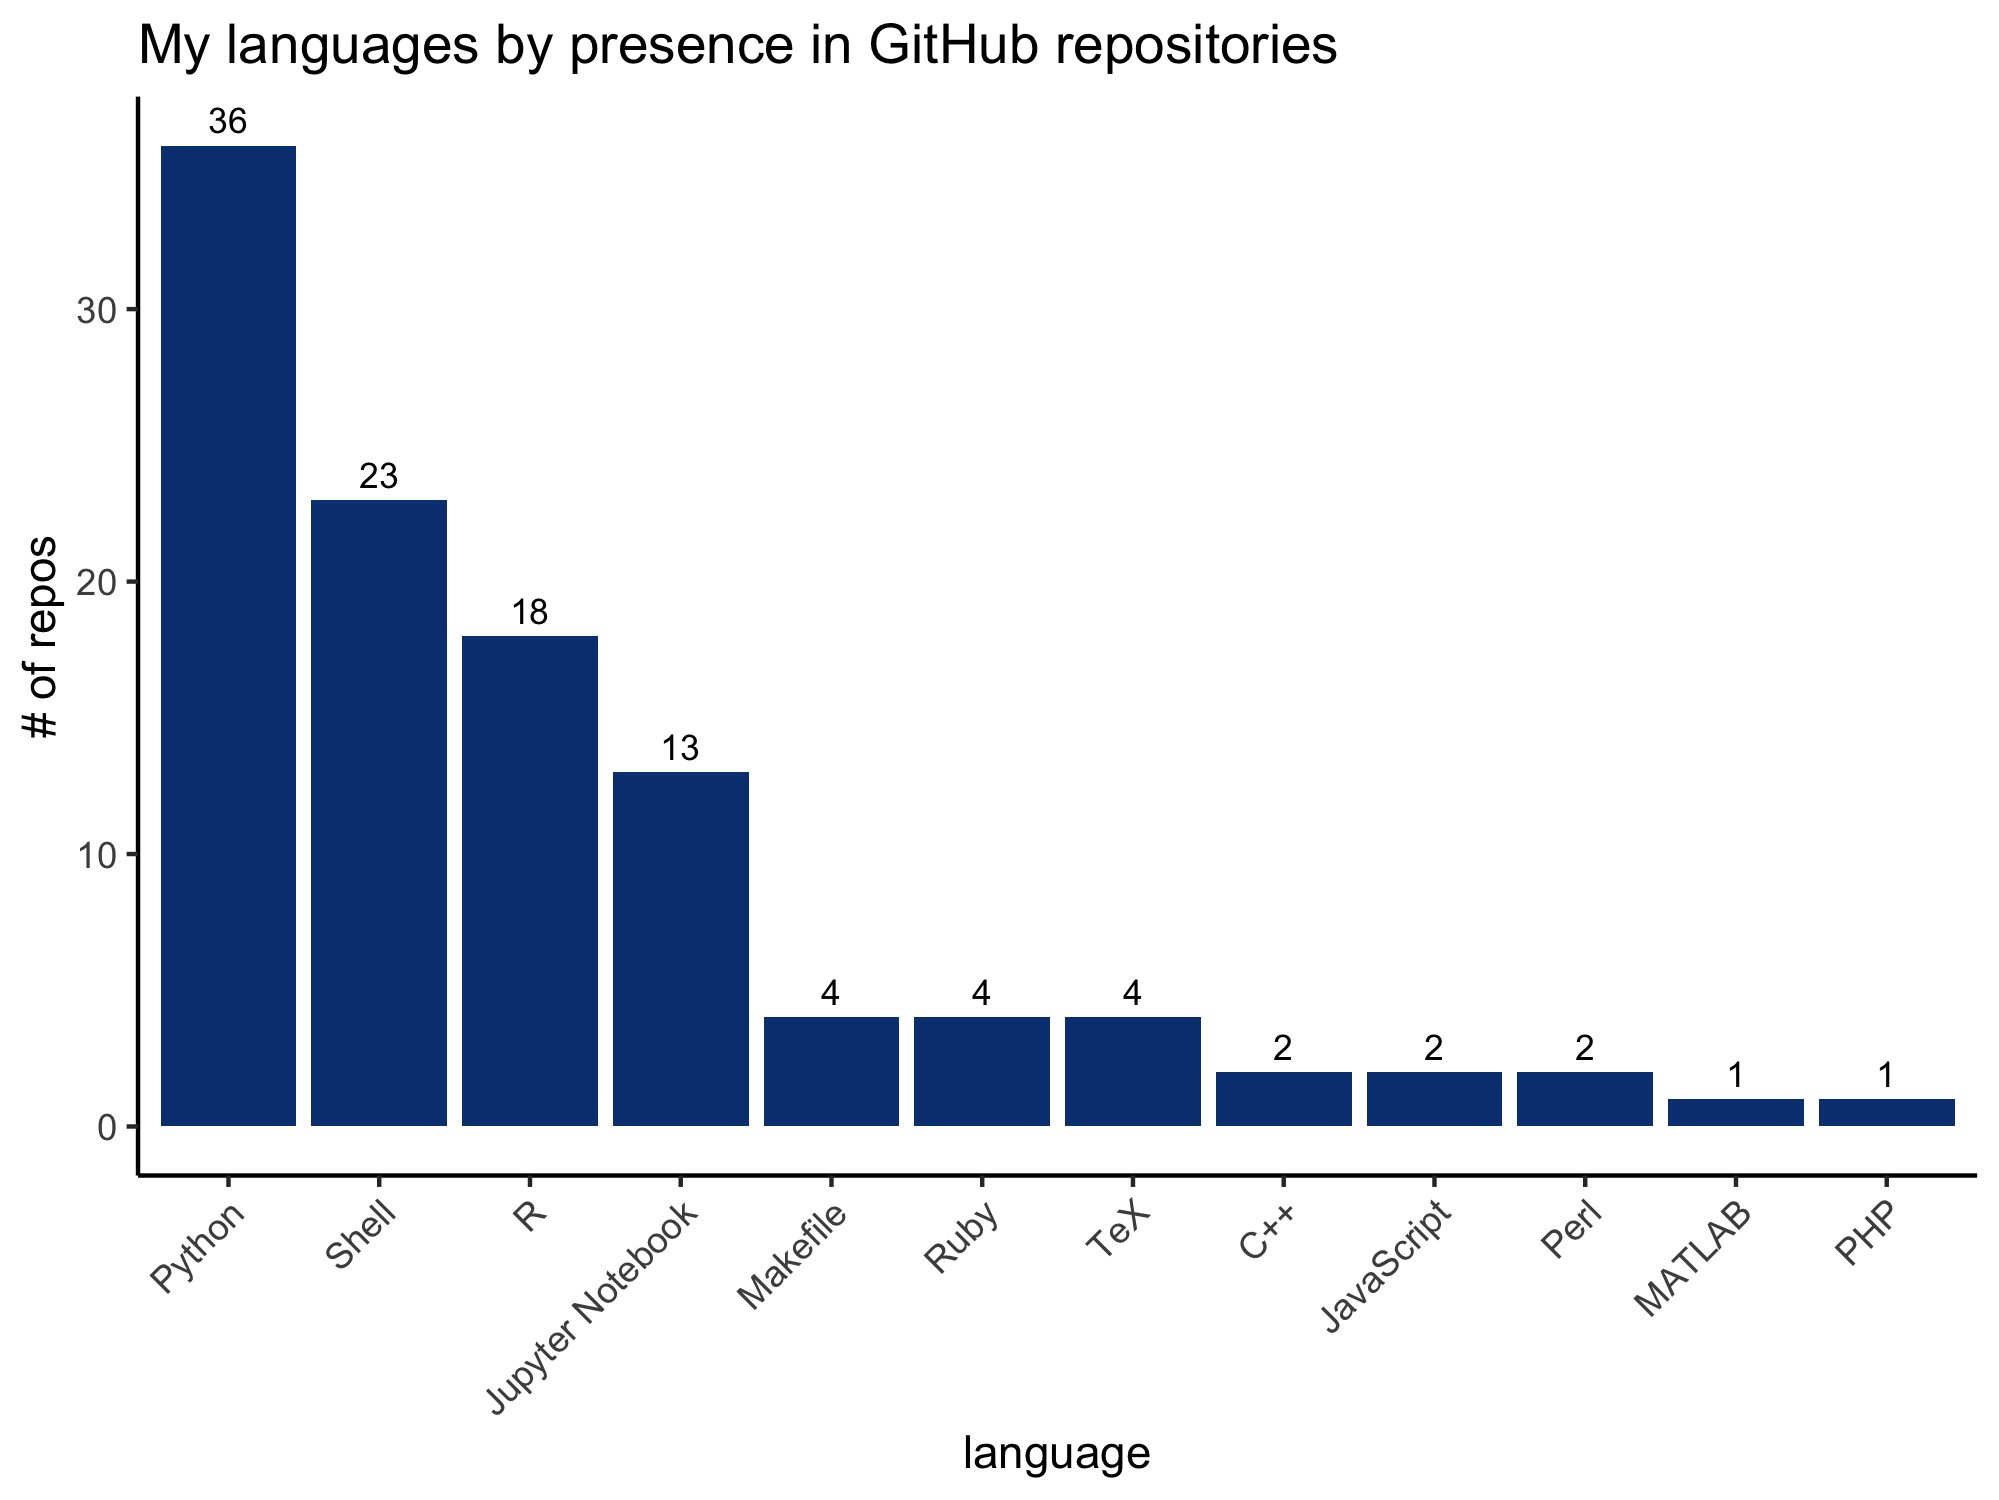
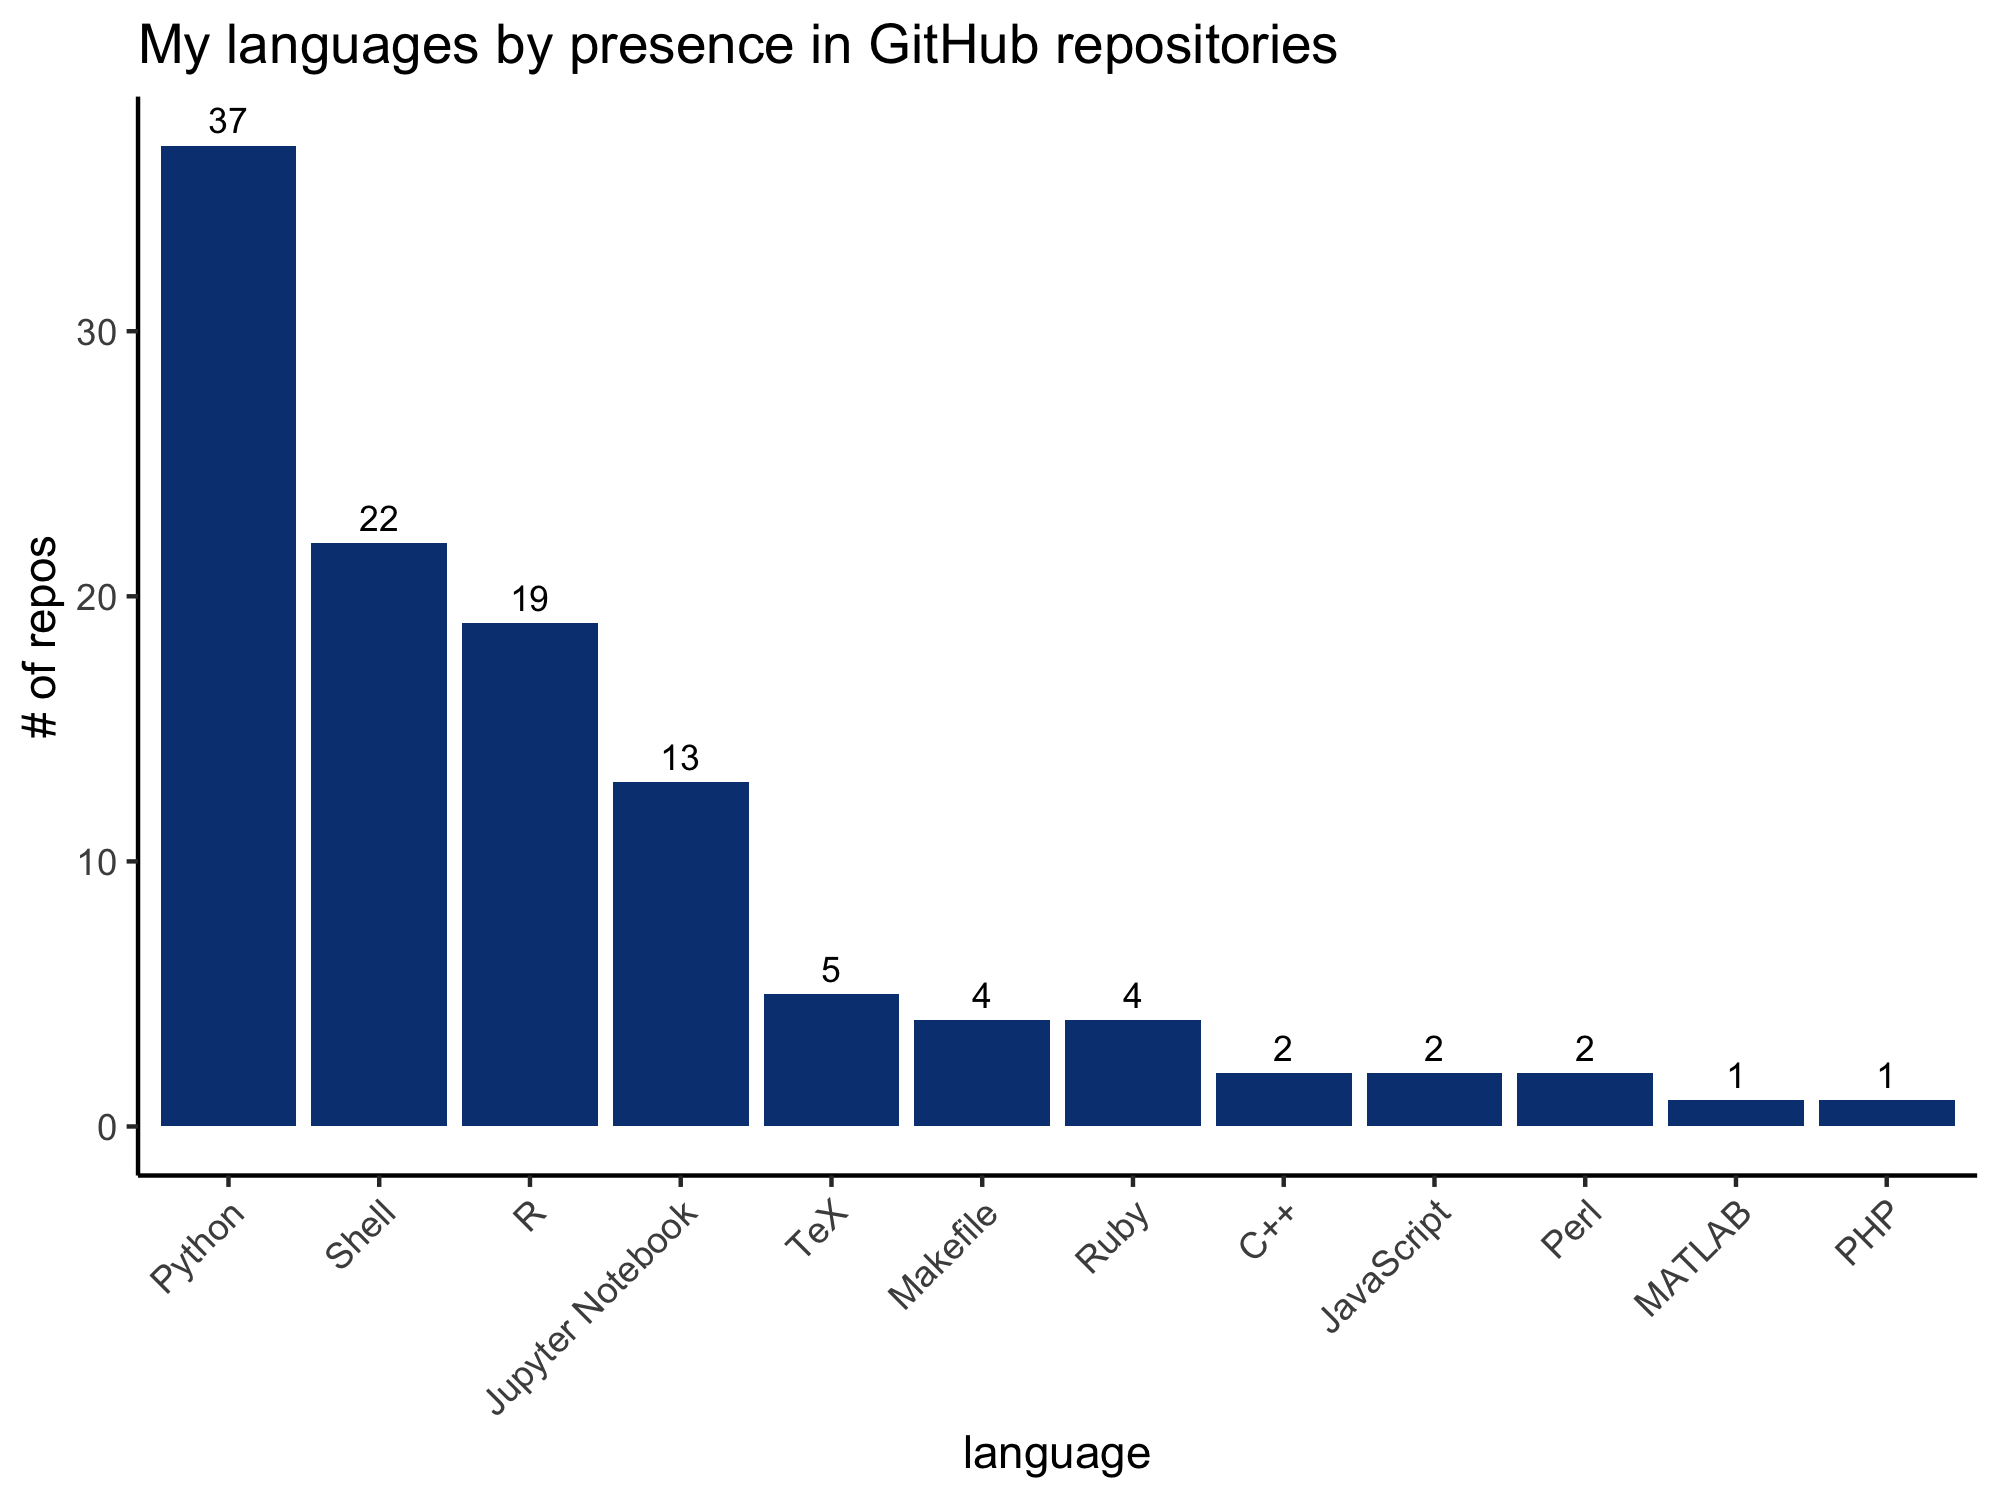
Auto-update repos

diff --git a/README.md b/README.md
@@ -10,23 +10,23 @@ A meta-repository to organize my public projects.
 ### Current
 | Repository | Description | Owner | Language(s) |
 |---|---|---|---|
+| [strava](https://github.com/kelly-sovacool/strava) | Having fun plotting my activity data from Strava! | [kelly-sovacool](https://github.com/kelly-sovacool) | R, Python, Shell |
+| [ML_pipeline_microbiome](https://github.com/SchlossLab/ML_pipeline_microbiome) |  | [SchlossLab](https://github.com/SchlossLab) | R, Shell |
+| [um-dang.github.io](https://github.com/um-dang/um-dang.github.io) | Website for the Data Analysis Networking Group at U-M. | [um-dang](https://github.com/um-dang) |  |
+| [umswc.github.io](https://github.com/UMSWC/umswc.github.io) | UM Software and Data Carpentry Website | [UMSWC](https://github.com/UMSWC) | CSS, HTML, Python, Ruby |
+| [latex-cv](https://github.com/kelly-sovacool/latex-cv) | My curriculum vitae in LaTeX + a Snakemake pipeline for compiling tex to pdf. | [kelly-sovacool](https://github.com/kelly-sovacool) | TeX, Python, Shell |
+| [ClubCurriculum](https://github.com/GWC-DCMB/ClubCurriculum) | Curriculum for our weekly club for high school students. | [GWC-DCMB](https://github.com/GWC-DCMB) | Jupyter Notebook, Python |
+| [meta-repo](https://github.com/kelly-sovacool/meta-repo) | A meta-repository to organize my public projects. | [kelly-sovacool](https://github.com/kelly-sovacool) | Python, R, Shell |
 | [recipes-kelly](https://github.com/kelly-sovacool/recipes-kelly) | Teaching git at WISE Software Carpentry Workshop 2020-01-07 | [kelly-sovacool](https://github.com/kelly-sovacool) |  |
-| [ML_pipeline_microbiome](https://github.com/SchlossLab/ML_pipeline_microbiome) |  | [SchlossLab](https://github.com/SchlossLab) | R, Shell, Makefile |
 | [omu-prototype](https://github.com/SchlossLab/omu-prototype) | A tool to cluster features from untargeted mass spectrometry experiments into Operational Metabolomic Units (OMU) | [SchlossLab](https://github.com/SchlossLab) | Python |
 | [GWC-DCMB](https://github.com/GWC-DCMB/GWC-DCMB) | A meta-repository to help navigate the repos and resources of Girls Who Code at UM-DCMB. | [GWC-DCMB](https://github.com/GWC-DCMB) | Python, Shell |
-| [meta-repo](https://github.com/kelly-sovacool/meta-repo) | A meta-repository to organize my public projects. | [kelly-sovacool](https://github.com/kelly-sovacool) | Python, R, Shell |
-| [um-dang.github.io](https://github.com/um-dang/um-dang.github.io) | Website for the Data Analysis Networking Group at U-M. | [um-dang](https://github.com/um-dang) |  |
 | [challengeQuestions](https://github.com/GWC-DCMB/challengeQuestions) | Jupyter notebooks of challenge questions for learners. | [GWC-DCMB](https://github.com/GWC-DCMB) | Jupyter Notebook, Python |
-| [strava](https://github.com/kelly-sovacool/strava) | Having fun plotting my activity data from Strava! | [kelly-sovacool](https://github.com/kelly-sovacool) | R, Python, Shell |
 | [SummerExperience](https://github.com/GWC-DCMB/SummerExperience) | Curriculum & materials for our week-long Data Science Summer Experience. | [GWC-DCMB](https://github.com/GWC-DCMB) | Jupyter Notebook, Python |
-| [ClubCurriculum](https://github.com/GWC-DCMB/ClubCurriculum) | Curriculum for our weekly club for high school students. | [GWC-DCMB](https://github.com/GWC-DCMB) | Jupyter Notebook, Python |
 | [jupyter-ci-mwe](https://github.com/kelly-sovacool/jupyter-ci-mwe) | A minimal working example of using continuous integration to convert jupyter notebooks to PDFs. | [kelly-sovacool](https://github.com/kelly-sovacool) | Jupyter Notebook |
 | [kelly-sovacool.github.io](https://github.com/kelly-sovacool/kelly-sovacool.github.io) | My personal website, forked from the academicpages template. | [kelly-sovacool](https://github.com/kelly-sovacool) | Shell |
-| [latex-cv](https://github.com/kelly-sovacool/latex-cv) | My curriculum vitae in LaTeX + a Snakemake pipeline for compiling tex to pdf. | [kelly-sovacool](https://github.com/kelly-sovacool) | TeX, Python, Shell |
 | [tiger_salamander_project](https://github.com/kelly-sovacool/tiger_salamander_project) | SNP pipeline using Snakemake for the Weisrock Lab's Tiger Salamander project. | [kelly-sovacool](https://github.com/kelly-sovacool) | Python, Shell |
 | [CapstoneProject](https://github.com/GWC-DCMB/CapstoneProject) | Capstone Project datasets & instructions. | [GWC-DCMB](https://github.com/GWC-DCMB) | Jupyter Notebook |
 | [2020-01-06-UMich-WISE](https://github.com/UMSWC/2020-01-06-UMich-WISE) | Software Carpentry workshop for WISE at U-M | [UMSWC](https://github.com/UMSWC) | Python, HTML, CSS, R, Makefile, JavaScript, Shell, Ruby |
-| [umswc.github.io](https://github.com/UMSWC/umswc.github.io) | UM Software and Data Carpentry Website | [UMSWC](https://github.com/UMSWC) | CSS, HTML, Python, Ruby |
 | [schlosslab.github.io](https://github.com/SchlossLab/schlosslab.github.io) | The website for the Schloss Lab at the University of Michigan | [SchlossLab](https://github.com/SchlossLab) | CSS, HTML, Ruby |
 | [codeDemos](https://github.com/GWC-DCMB/codeDemos) | Stand-alone Python coding demos. | [GWC-DCMB](https://github.com/GWC-DCMB) | Jupyter Notebook, Python |
 | [documenting-R](https://github.com/SchlossLab/documenting-R) | Materials for a code review on documenting R code. | [SchlossLab](https://github.com/SchlossLab) | R |
